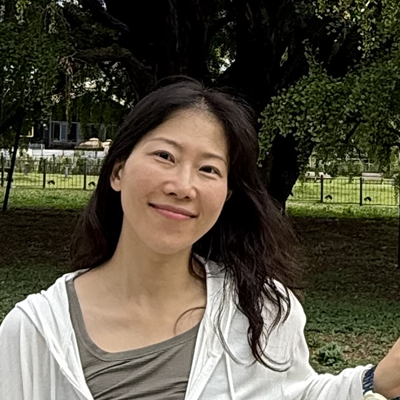
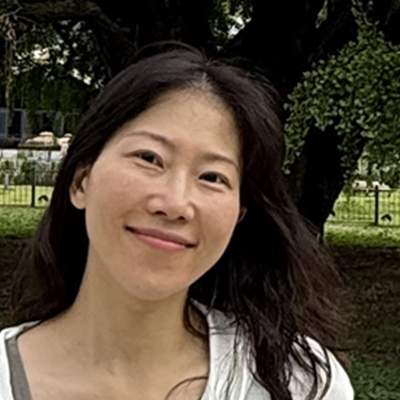
design: 오로라 우주 테마 아이콘, R 프로필 확대, 등록 날짜 폼 레이아웃 개선

diff --git a/index.html b/index.html
@@ -10,9 +10,10 @@
   <title>소원함</title>
   <!-- Pretendard Web Font CDN (High Readability & Clean Sans-serif) -->
   <link rel="stylesheet" as="style" crossorigin href="https://cdn.jsdelivr.net/gh/orioncactus/pretendard@v1.3.9/dist/web/static/pretendard.min.css" />
-  <!-- PWA Manifest -->
+  <!-- PWA Manifest & Favicon -->
   <link rel="manifest" href="manifest.json">
-  <!-- Apple Touch Icon -->
+  <link rel="icon" type="image/png" sizes="192x192" href="icon-192.png">
+  <link rel="shortcut icon" href="icon-192.png">
   <link rel="apple-touch-icon" href="wishbox_logo.png">
   <!-- Supabase JS Client via CDN -->
   <script src="https://cdn.jsdelivr.net/npm/@supabase/supabase-js@2"></script>
@@ -170,8 +171,8 @@
             </div>
 
             <form id="wishForm" autocomplete="off">
-              <div class="form-row">
-                <!-- Person Selector -->
+              <!-- Row 1: Person Selector -->
+              <div class="form-row form-row-single">
                 <div class="form-group flex-1">
                   <label class="form-label" for="wishAuthor">소원 작성자</label>
                   <div class="author-selector-group" id="authorSelectorGroup">
@@ -186,15 +187,18 @@
                   </div>
                   <input type="hidden" id="wishAuthor" value="user1">
                 </div>
+              </div>
 
+              <!-- Row 2: Registration Date & Category (50:50 Split) -->
+              <div class="form-row form-row-split">
                 <!-- Registration Date Selector -->
-                <div class="form-group flex-1">
-                  <label class="form-label" for="wishCreatedAt">등록 날짜 설정</label>
+                <div class="form-group flex-half">
+                  <label class="form-label" for="wishCreatedAt">등록 날짜</label>
                   <input type="date" id="wishCreatedAt" class="styled-input" required>
                 </div>
 
                 <!-- Category/Type selector -->
-                <div class="form-group flex-1">
+                <div class="form-group flex-half">
                   <label class="form-label" for="wishCategory">소원 유형</label>
                   <select id="wishCategory" class="styled-select">
                     <option value="데이트 / 놀기 🎡">데이트 / 놀기 🎡</option>

diff --git a/styles.css b/styles.css
@@ -384,6 +384,24 @@ body {
   min-width: 240px;
 }
 
+.flex-half {
+  flex: 1 1 calc(50% - 8px);
+  min-width: 120px;
+}
+
+.form-row-split {
+  display: flex;
+  gap: 16px;
+  margin-bottom: 16px;
+}
+
+@media (max-width: 360px) {
+  .form-row-split {
+    flex-direction: column;
+    gap: 12px;
+  }
+}
+
 .form-group {
   display: flex;
   flex-direction: column;
@@ -1451,19 +1469,35 @@ body {
 .home-logo-wrap {
   width: 120px;
   height: 120px;
-  background: linear-gradient(135deg, #fff0f5, #ffe8ee);
+  background: radial-gradient(circle at 35% 30%, #7c3aed 0%, #1e1145 55%, #0b091a 100%);
   border-radius: 28px;
   display: flex;
   align-items: center;
   justify-content: center;
-  box-shadow: 0 8px 24px rgba(255, 101, 132, 0.18);
+  box-shadow: 0 10px 30px rgba(124, 58, 237, 0.35), 0 0 20px rgba(6, 214, 160, 0.25);
   margin-bottom: 6px;
+  border: 1.5px solid rgba(167, 139, 250, 0.35);
+  position: relative;
+  overflow: hidden;
+}
+
+.home-logo-wrap::before {
+  content: "";
+  position: absolute;
+  top: -20%;
+  right: -20%;
+  width: 90px;
+  height: 90px;
+  background: radial-gradient(circle, rgba(6, 214, 160, 0.4) 0%, transparent 70%);
+  pointer-events: none;
 }
 
 .home-hero-img {
   width: 90px;
   height: 90px;
   object-fit: contain;
+  filter: drop-shadow(0 4px 12px rgba(0, 0, 0, 0.25));
+  z-index: 1;
 }
 
 .home-title {

diff --git a/sw.js b/sw.js
@@ -1,11 +1,13 @@
 // 소원함 시즌2 - Service Worker (PWA)
-const CACHE_NAME = 'wishapp-v1';
+const CACHE_NAME = 'wishapp-v2';
 const ASSETS = [
   './',
   './index.html',
   './styles.css',
   './app.js',
   './manifest.json',
+  './icon-192.png',
+  './icon-512.png',
   './wishbox_logo.png',
   './wishbox_transparent.png',
   './wishbox.png',
